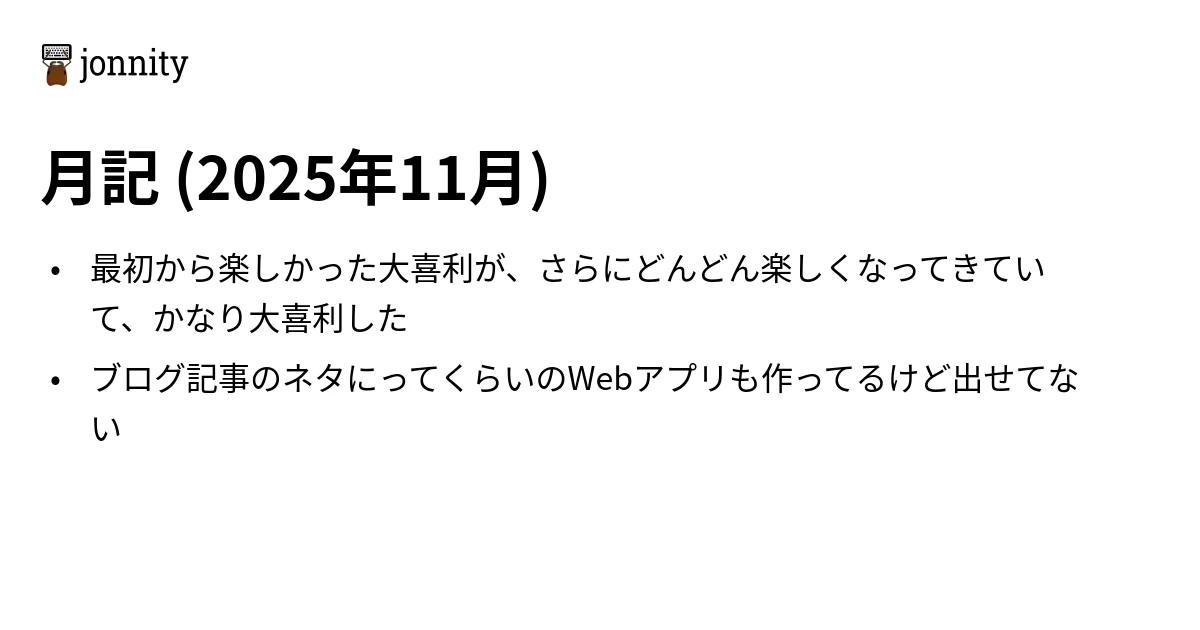
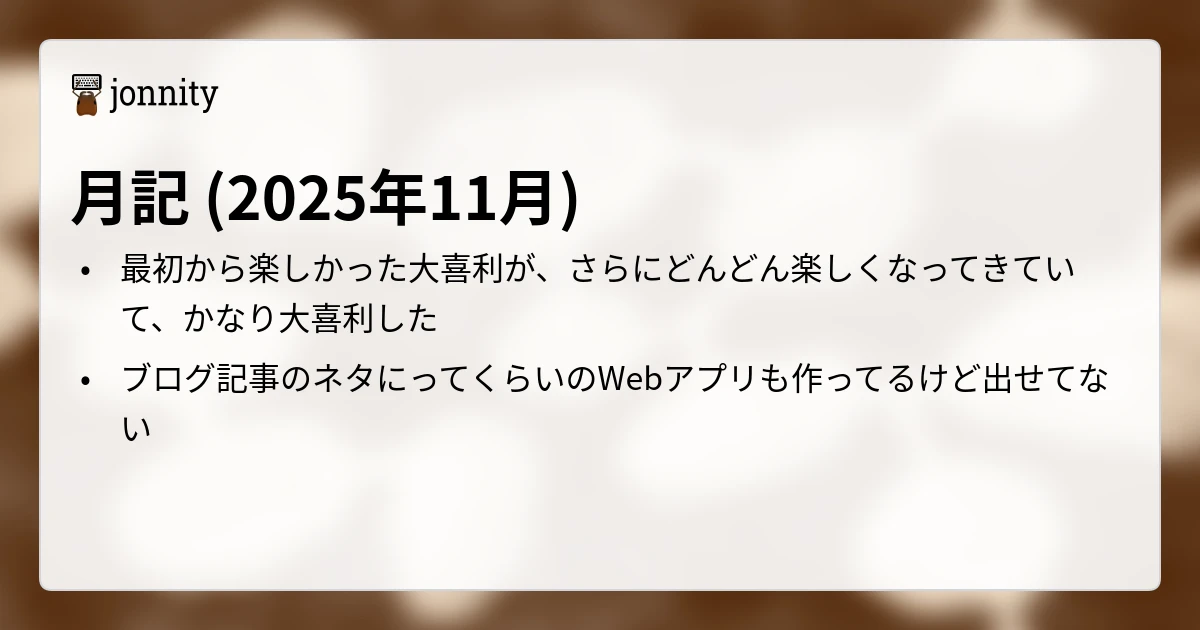
feat: add ant nest background and rounded box design to thumbnails
- Added ant nest background image (bg-ant-nest_landscape.webp) to thumbnails
- Implemented rounded rectangle with 90% white opacity overlay
- Added gray border matching website design
- Adjusted content positioning to fit within the box
- Used sharp to convert WebP background to PNG for canvas compatibility

The thumbnails now match the website's design with:
- Ant nest background texture
- Rounded corners (12px radius)
- Semi-transparent white content box
- Gray border (#d1d5db)
- Proper spacing and padding

🤖 Generated with [Claude Code](https://claude.com/claude-code)

Changed region(s): [[0.0, 0.0, 1.0, 1.0]]

diff --git a/scripts/generate-monthly-thumbnail.js b/scripts/generate-monthly-thumbnail.js
@@ -154,12 +154,94 @@ async function generateThumbnail(markdownPath) {
   const canvas = createCanvas(width, height);
   const ctx = canvas.getContext("2d");
 
-  // White background
-  ctx.fillStyle = "white";
-  ctx.fillRect(0, 0, width, height);
+  // Load and draw background image
+  const bgPath = path.join(
+    __dirname,
+    "..",
+    "public",
+    "bg-ant-nest_landscape.webp",
+  );
+  const { loadImage } = require("canvas");
 
-  // Load and draw logo in upper left
+  if (fs.existsSync(bgPath)) {
+    try {
+      // Convert WebP to PNG buffer using sharp
+      const bgBuffer = await sharp(bgPath)
+        .resize(width, height, { fit: "cover" })
+        .png()
+        .toBuffer();
+
+      const bgImage = await loadImage(bgBuffer);
+      // Draw background image to fill the canvas
+      ctx.drawImage(bgImage, 0, 0, width, height);
+    } catch (error) {
+      console.warn("Could not load background:", error.message);
+      // Fallback to white background
+      ctx.fillStyle = "white";
+      ctx.fillRect(0, 0, width, height);
+    }
+  } else {
+    // Fallback to white background
+    ctx.fillStyle = "white";
+    ctx.fillRect(0, 0, width, height);
+  }
+
+  // Draw rounded rectangle with white background (90% opacity)
+  const padding = 40;
+  const boxX = padding;
+  const boxY = padding;
+  const boxWidth = width - padding * 2;
+  const boxHeight = height - padding * 2;
+  const borderRadius = 12;
+
+  // Create rounded rectangle path
+  ctx.beginPath();
+  ctx.moveTo(boxX + borderRadius, boxY);
+  ctx.lineTo(boxX + boxWidth - borderRadius, boxY);
+  ctx.quadraticCurveTo(
+    boxX + boxWidth,
+    boxY,
+    boxX + boxWidth,
+    boxY + borderRadius,
+  );
+  ctx.lineTo(boxX + boxWidth, boxY + boxHeight - borderRadius);
+  ctx.quadraticCurveTo(
+    boxX + boxWidth,
+    boxY + boxHeight,
+    boxX + boxWidth - borderRadius,
+    boxY + boxHeight,
+  );
+  ctx.lineTo(boxX + borderRadius, boxY + boxHeight);
+  ctx.quadraticCurveTo(
+    boxX,
+    boxY + boxHeight,
+    boxX,
+    boxY + boxHeight - borderRadius,
+  );
+  ctx.lineTo(boxX, boxY + borderRadius);
+  ctx.quadraticCurveTo(boxX, boxY, boxX + borderRadius, boxY);
+  ctx.closePath();
+
+  // Fill with white at 90% opacity
+  ctx.globalAlpha = 0.9;
+  ctx.fillStyle = "white";
+  ctx.fill();
+
+  // Draw border
+  ctx.globalAlpha = 1.0;
+  ctx.strokeStyle = "#d1d5db"; // gray-300
+  ctx.lineWidth = 2;
+  ctx.stroke();
+
+  // Reset global alpha
+  ctx.globalAlpha = 1.0;
+
+  // Load and draw logo in upper left (inside the box)
   const logoPath = path.join(__dirname, "..", "public", "logo_keyboard.svg");
+  const contentPadding = 30; // Padding inside the box
+  const logoX = boxX + contentPadding;
+  const logoY = boxY + contentPadding;
+
   if (fs.existsSync(logoPath)) {
     try {
       // For SVG, we'll use sharp to convert it first
@@ -168,9 +250,8 @@ async function generateThumbnail(markdownPath) {
         .png()
         .toBuffer();
 
-      const { createCanvas: createTempCanvas, loadImage } = require("canvas");
       const logoImage = await loadImage(logoBuffer);
-      ctx.drawImage(logoImage, 40, 40, logoImage.width, logoImage.height);
+      ctx.drawImage(logoImage, logoX, logoY, logoImage.width, logoImage.height);
     } catch (error) {
       console.warn("Could not load logo:", error.message);
     }
@@ -179,33 +260,36 @@ async function generateThumbnail(markdownPath) {
   // Draw title
   ctx.fillStyle = "#000000";
   ctx.font = 'bold 60px "Noto Sans CJK JP", sans-serif';
-  ctx.fillText(title, 40, 200);
+  const titleY = boxY + contentPadding + 150;
+  ctx.fillText(title, logoX, titleY);
 
   // Draw summary bullets
   const maxSummaryItems = 5;
   const summaryItems = summary.slice(0, maxSummaryItems);
 
   ctx.font = '32px "Noto Sans CJK JP", sans-serif';
-  let yPosition = 280;
+  let yPosition = titleY + 60;
   const lineHeight = 50;
-  const maxWidth = width - 100;
+  const maxWidth = boxWidth - contentPadding * 2 - 50; // Account for bullet space
 
   summaryItems.forEach((item, index) => {
-    if (yPosition + lineHeight > height - 40) return; // Don't overflow
+    const boxBottom = boxY + boxHeight - contentPadding;
+    if (yPosition + lineHeight > boxBottom) return; // Don't overflow the box
 
     // Draw bullet
-    ctx.fillText("•", 50, yPosition);
+    const bulletX = logoX + 10;
+    ctx.fillText("•", bulletX, yPosition);
 
     // Wrap text with kinsoku rules
     const bulletText = item.toString();
-    const lines = wrapTextWithKinsoku(ctx, bulletText, maxWidth - 90);
-    const x = 90;
+    const lines = wrapTextWithKinsoku(ctx, bulletText, maxWidth);
+    const textX = bulletX + 40;
 
     // Draw each line
     for (let i = 0; i < lines.length; i++) {
-      if (yPosition + lineHeight > height - 40) break;
+      if (yPosition + lineHeight > boxBottom) break;
 
-      ctx.fillText(lines[i], x, yPosition);
+      ctx.fillText(lines[i], textX, yPosition);
       yPosition += lineHeight;
     }
 
